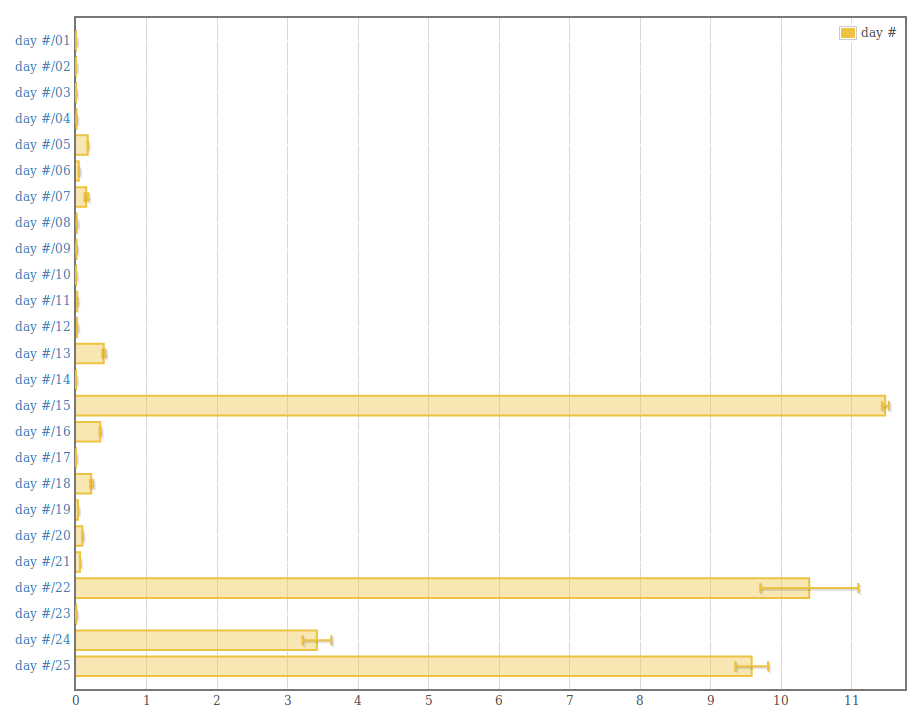
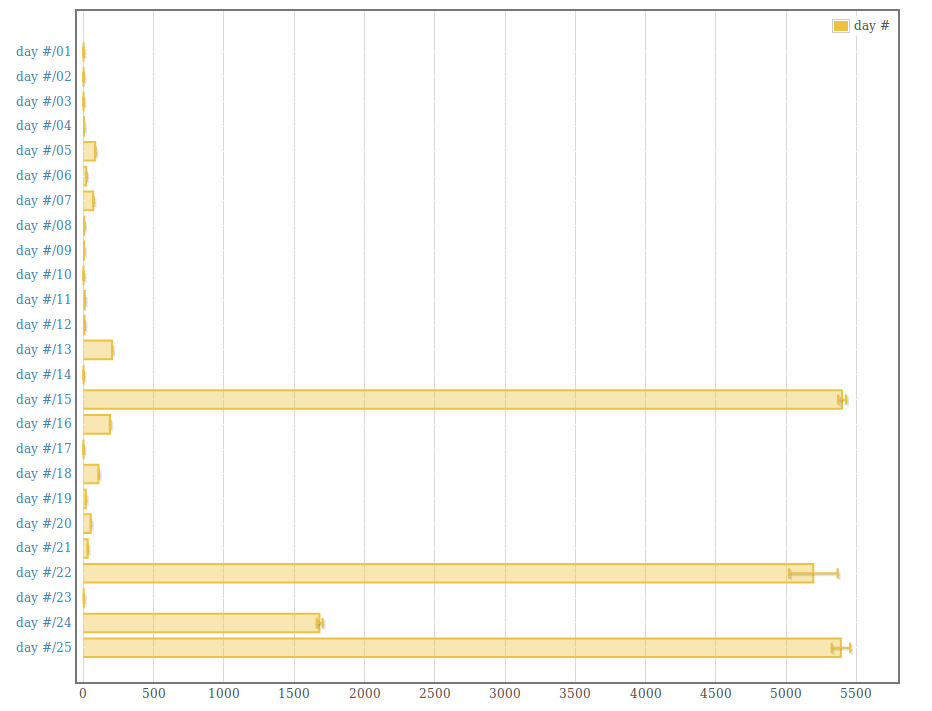
Update changes from optimizations

Changed region(s): [[0.0, 0.0, 1.0, 0.9902]]

diff --git a/README.md b/README.md
@@ -8,10 +8,12 @@ not gather absolute data on.
 
     Slowest (in seconds):
 
-    - Day 15 11.5
-    - Day 22 10.4
-    - Day 25 10
-    - Day 24  3.4
+    - Day 15 5.4
+    - Day 25 5.4
+    - Day 22 5.2
+    - Day 24  1.7
     - All others finish under a second
 
 ![Criterion Benchmark Report](./benchmarks/criterion-report.png)
+
+(x-axis measured in milliseconds)
